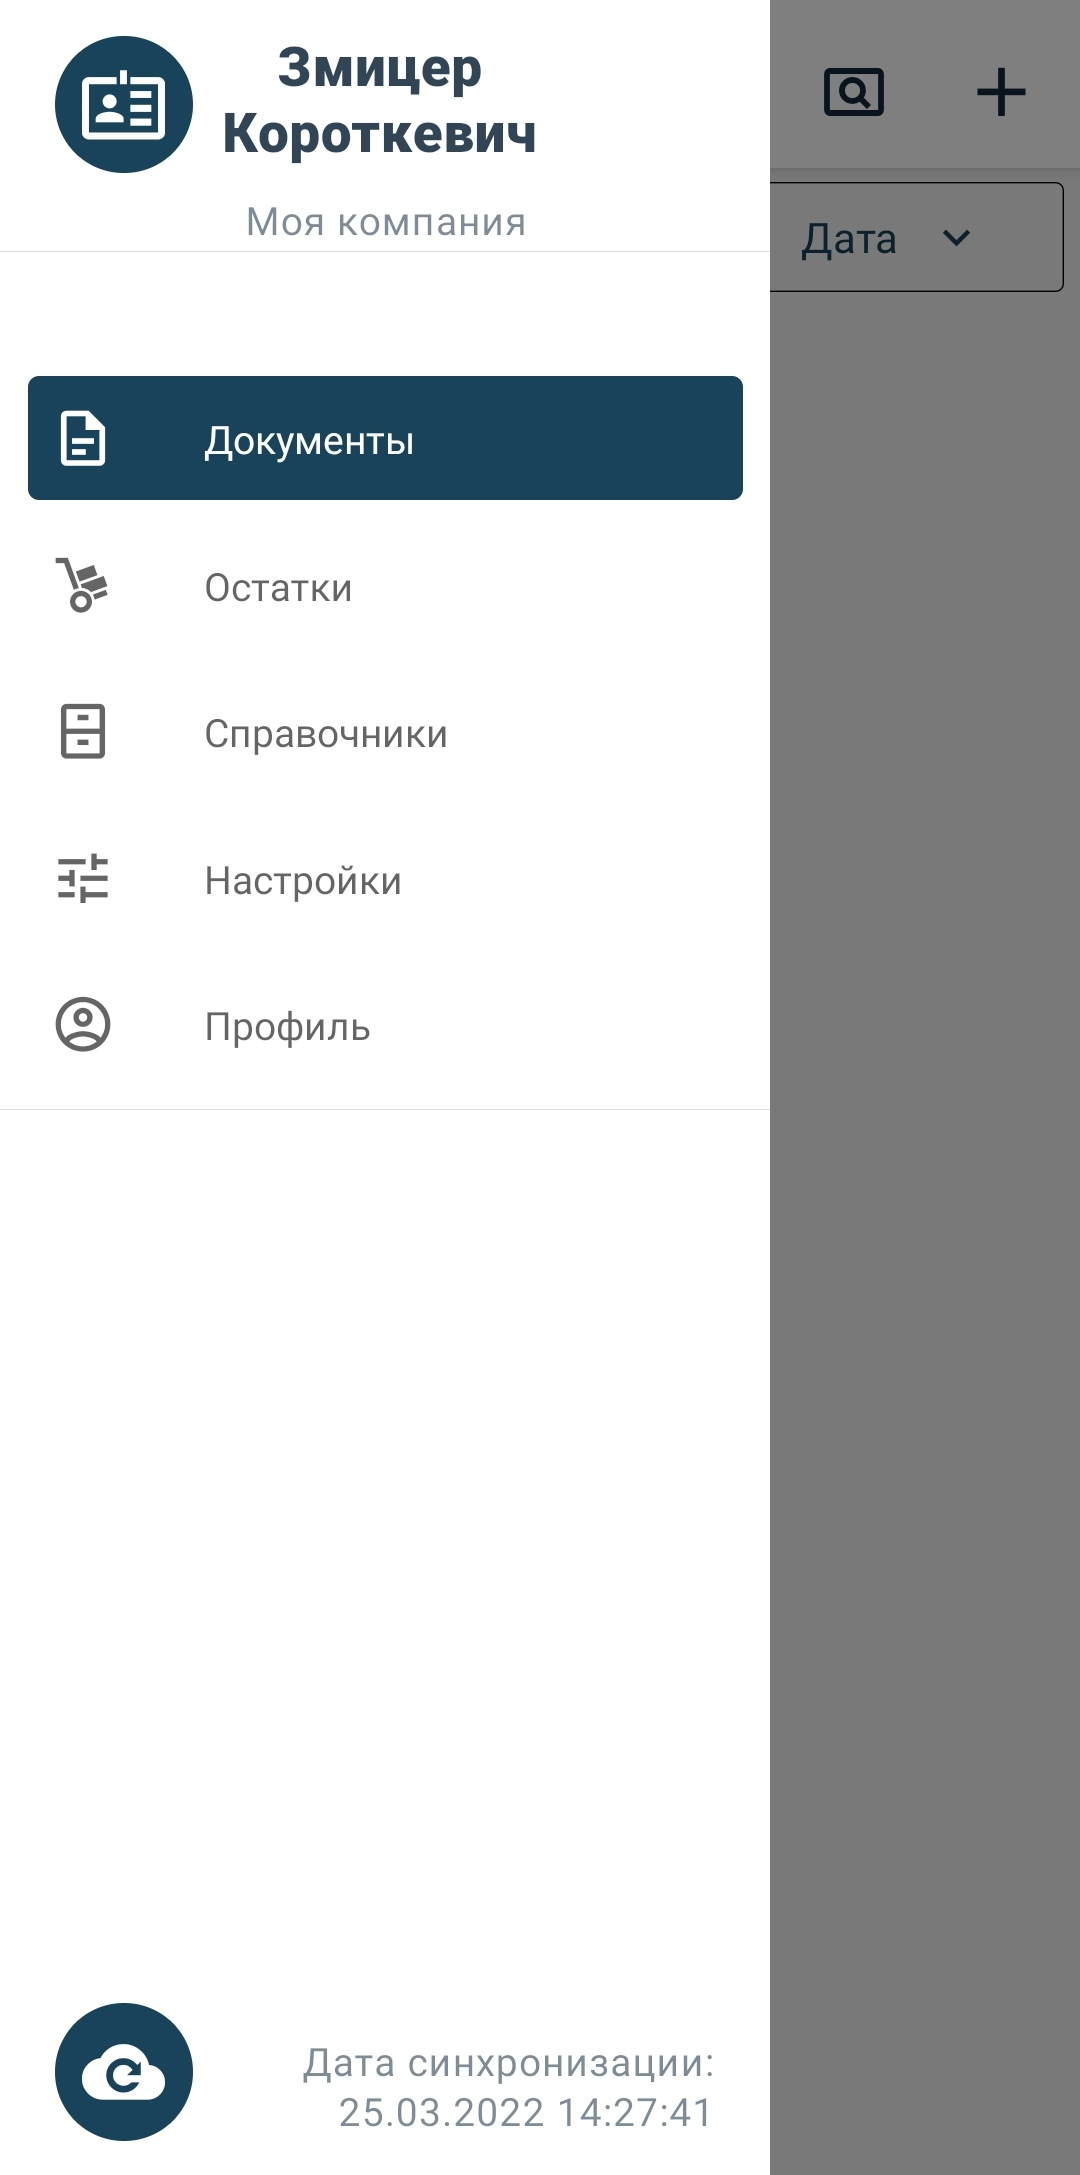
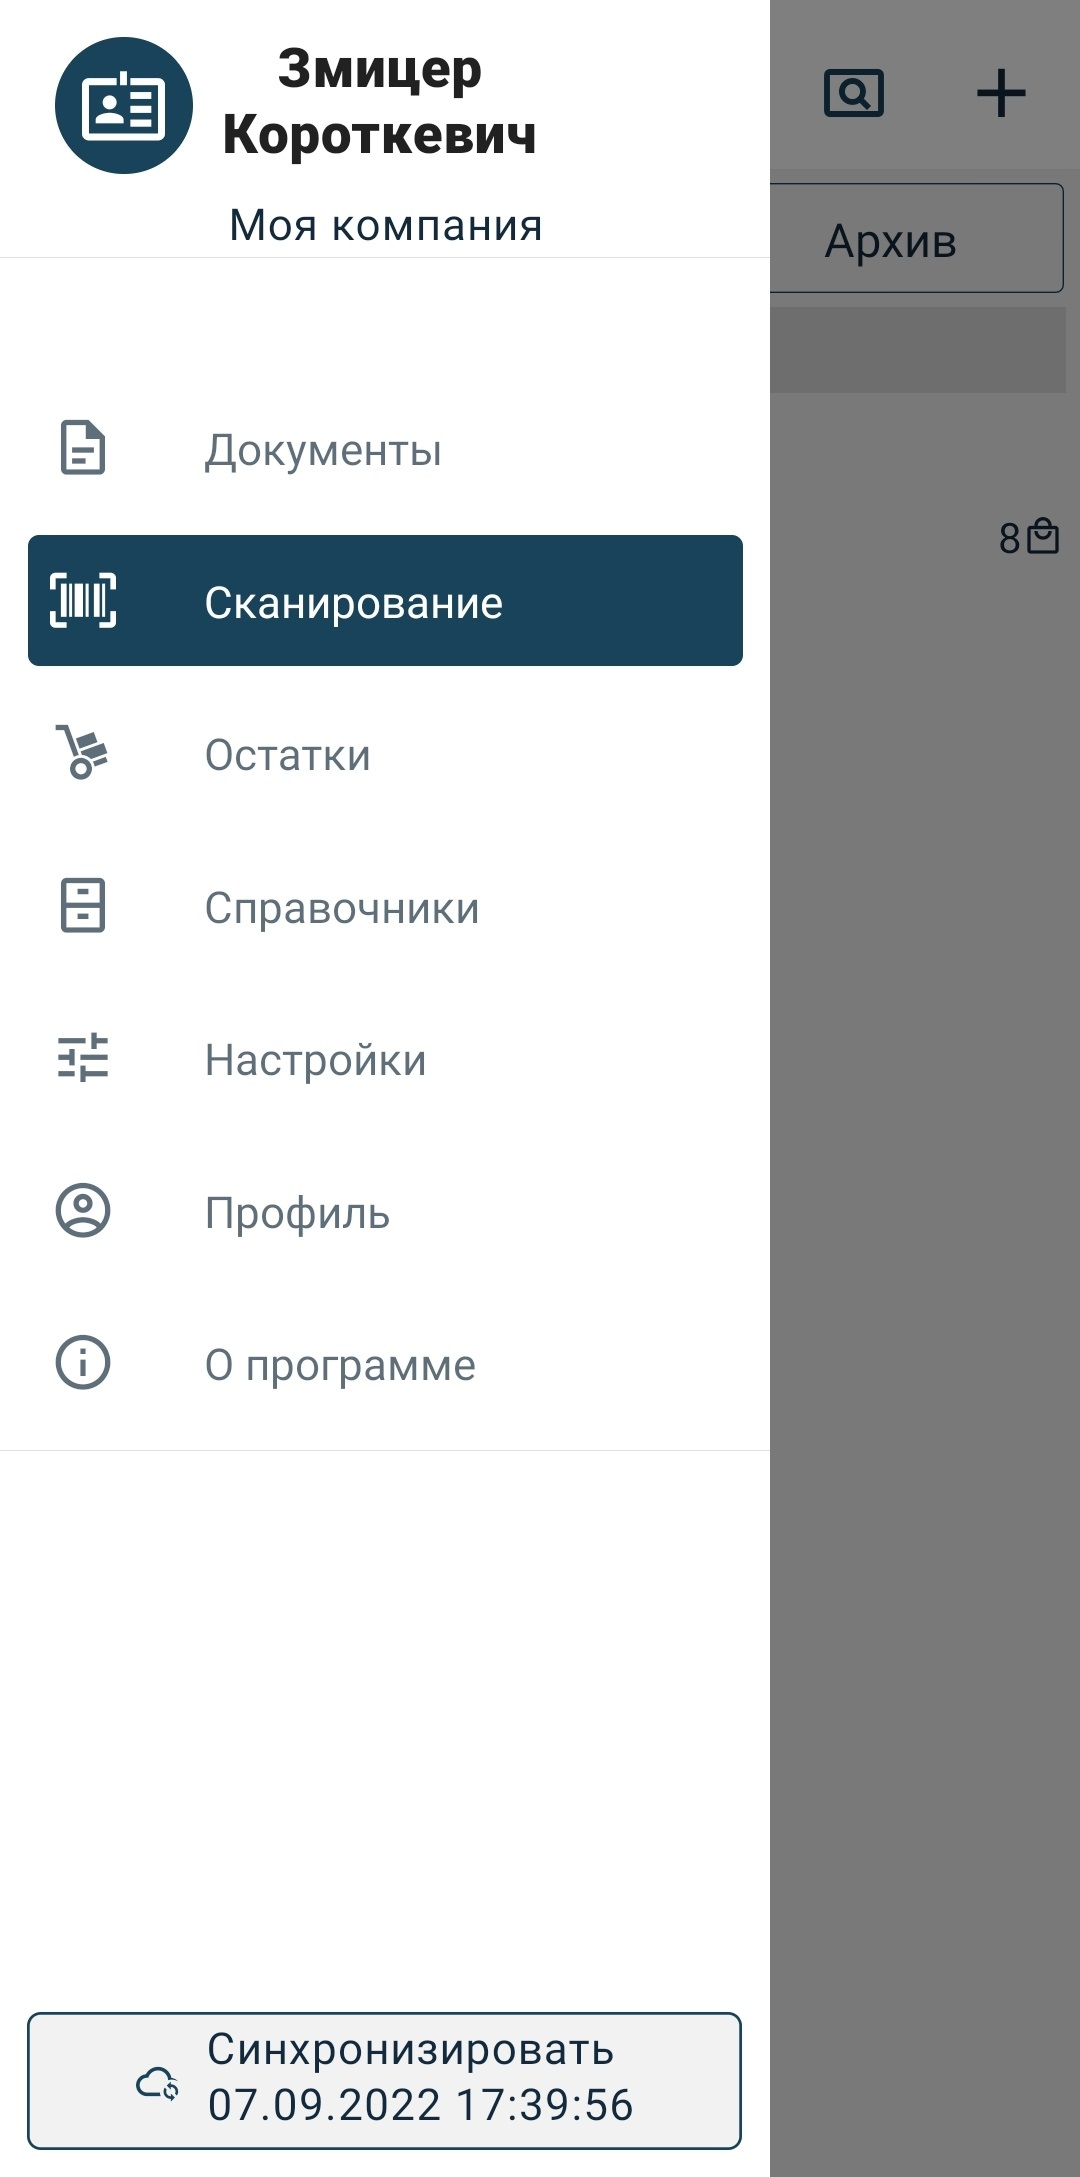
changes docs

diff --git a/docs/gdmn-gd-movement/docs/README.md b/docs/gdmn-gd-movement/docs/README.md
@@ -94,7 +94,7 @@
 
 ## 3. Загрузка данных
 
-Чтобы загрузить данные, предназначенные для пользователя, следует нажать на кнопку синхронизации данных <img src="img/1.Connection/1.Sync.jpg" alt="drawing" height="22"/> в нижнем углу бокового меню.
+Чтобы загрузить данные, предназначенные для пользователя, следует нажать на кнопку синхронизации данных <img src="img/1.Connection/1.Sync.jpg" alt="drawing" height="22"/> в нижней части бокового меню.
 
 Открыть боковое меню можно нажатием на иконку меню " **≡** ", находящуюся в верхнем углу приложения слева, или смахнув пальцем вправо с левого края устройства.
 
@@ -104,7 +104,7 @@
 
 Если синхронизация прошла, но данных не появилось, то необходимо повторить синхронизацию через некоторое время.
 
-Рядом с иконкой <img src="img/1.Connection/1.Sync.jpg" alt="drawing" height="27"/> отобразится дата и время последней синхронизации.
+На кнопке **Синхронизировать** отобразится дата и время последней синхронизации.
 
 <img src="img/1.Connection/1.NewSyncDate.jpg" alt="drawing" height="400"/>
 
@@ -118,7 +118,7 @@
 
 <img src="img/2.References/2.Contacts.jpg" alt="drawing" height="400"/> <img src="img/2.References/2.ContactPosition.jpg" alt="drawing" height="400"/>
 
-Чтобы найти справочник по наименованию можно воспользоваться строкой поиска, нажав на иконку **Поиск** в правом верхнем углу экрана.
+Чтобы найти справочник по наименованию можно воспользоваться строкой поиска, нажав на иконку **Поиск** <img src="img/1.Connection/1.IconSearch.jpg" alt="drawing" height="22"/> в правом верхнем углу экрана.
 
 ## 5. Остатки
 
@@ -143,7 +143,7 @@
 
 Например, для документа прихода это поля **Откуда**, **Куда**. Для документа инвентаризации - поле **Место**.
 
-<img src="img/3.Docs/3.AddDocTypes.jpg" alt="drawing" height="400"/> <img src="img/3.Docs/3.PrihodAdd.jpg" alt="drawing" height="400"/> <img src="img/3.Docs/3.InventoryAdd.jpg" alt="drawing" height="400"/>
+<img src="img/3.Docs/3.AddDocTypes.jpg" alt="drawing" height="400"/> <img src="img/3.Docs/3.DocTypes.jpg" alt="drawing" height="400"/> <img src="img/3.Docs/3.InventoryAdd.jpg" alt="drawing" height="400"/>
 
 Поля контактов могут быть 3 типов, которые при необходимости можно менять:
 - Подразделение
@@ -152,9 +152,9 @@
 
 <img src="img/3.Docs/3.DocTypes.jpg" alt="drawing" height="400"/> <img src="img/3.Docs/3.From.jpg" alt="drawing" height="400"/> <img src="img/3.Docs/3.To.jpg" alt="drawing" height="400"/>
 
-После заполнения данных документ сохраняем, нажав на иконку **✓** в правом верхнем углу.
+После заполнения данных документ сохраняем, нажав на иконку " **✓** " в правом верхнем углу.
 
-Отредактировать введенные данные можно, нажав на шапку документа или используя пункт меню " **⁝** " **Редактировать данные**.
+Отредактировать введенные данные можно, нажав на значок <img src="img/1.Connection/1.IconEdit.jpg" alt="drawing" height="22"/> на шапке документа или используя пункт меню " **⁝** " **Редактировать данные**.
 
 <img src="img/3.Docs/3.PrihodView.jpg" alt="drawing" height="400"/> <img src="img/3.Docs/3.PrihodNew.jpg" alt="drawing" height="400"/> <img src="img/3.Docs/3.MenuDelDoc.jpg" alt="drawing" height="400"/>
 
@@ -176,7 +176,9 @@
 Уточнение: если вы производите сканирование штрихкодов исключительно с помощью камеры устройства, то в настройках приложения необходимо перевести параметр **Использовать сканер** в отрицательное положение.
 
 
-Нажимаем на иконку штрихкода <img src="img/10.Scanner/10.IconScanner.jpg" alt="drawing" height="22"/> в верхнем правом углу и переходим на экран сканирования товара.
+Нажимаем на иконку штрихкода <img src="img/10.Scanner/10.IconScanner.jpg" alt="drawing" height="22"/>  в верхнем правом углу и переходим на экран сканирования товара. 
+
+<img src="img/3.Docs/3.PrihodView.jpg" alt="drawing" height="400"/>
 
 Экран сканирования на ТСД:
 
@@ -186,11 +188,11 @@
 
 <img src="img/3.Docs/3.Scan.jpg" alt="drawing" height="400"/> <img src="img/3.Docs/3.ScanOne.jpg" alt="drawing" height="400"/>
 
-Сканируем штрихкод и переходим на экран позиции документа для ввода количества:
+Сканируем штрихкод и переходим на экран позиции документа для ввода количества товара:
 
 <img src="img/3.Docs/3.PrihodGoodLineOne.jpg" alt="drawing" height="400"/>
 
-Вводим количество и сохраняем позицию, нажав на иконку **✓**.
+Вводим количество и сохраняем позицию, нажав на иконку " **✓** ".
 
 Если отсканированный штрихкод не найден в справочнике, и если документ работает не только с остатками товаров (например, документ прихода), то в позицию подставится неизвестный товар:
 
@@ -203,7 +205,7 @@
 #### _Добавление товара вручную_
 
 В меню документа " **⁝** ", расположенном в правом верхнем углу, нажимаем на пункт **Добавить товар**.
-Выбираем товар из списка, воспользовавшись строкой поиска (по названию или штрихкоду). Далее вводим количество и сохраняем позицию **✓**.
+Выбираем товар из списка, воспользовавшись строкой поиска (по названию или штрихкоду). Далее вводим количество и сохраняем позицию " **✓** ".
 
 <img src="img/3.Docs/3.PrihodViewMenu.jpg" alt="drawing" height="400"/> <img src="img/3.Docs/3.PrihodRemains.jpg" alt="drawing" height="400"/> <img src="img/3.Docs/3.PrihodRemainsSearch.jpg" alt="drawing" height="400"/>
 
@@ -215,7 +217,7 @@
 
 #### Удаление позиции
 
-Если в экране просмотра документа нажать и удерживать позицию товара, то появится зеленая галочка. Далее необходимо нажать на иконку **Мусорная корзина**, и подтвердить желание удалить данную позицию или позиции документа. 
+Если в экране просмотра документа нажать и удерживать позицию товара, то появится зеленая галочка. Далее необходимо нажать на иконку  <img src="img/1.Connection/1.IconTrash.jpg" alt="drawing" height="22"/> **Мусорная корзина**, и подтвердить желание удалить данную позицию или позиции документа. 
 
 Позиция или позиции будут удалены.
 
@@ -223,7 +225,7 @@
 
 Отменить удаление позиций документа можно:
 - нажав на иконку " **×** ", в левом верхнем углу. При этом способе счезнут все зеленые галочки с выбранных позиций, экран вернется к изначальному состоянию.
-- нажав иконку **Мусорная корзина** и выбрав кнопку **Отмена** в появившемся окне "Уверены, что хотите удалить позиции документа?". При этом способе все зеленые галочки на выбранных позициях останутся на месте, можно продолжить редактировать удаление позиций документа.
+- нажав иконку <img src="img/1.Connection/1.IconTrash.jpg" alt="drawing" height="22"/> **Мусорная корзина** и выбрав кнопку **Отмена** в появившемся окне "Уверены, что хотите удалить позиции документа?". При этом способе все зеленые галочки на выбранных позициях останутся на месте, можно продолжить редактировать удаление позиций документа.
 
 <img src="img/3.Docs/3.DelPositDoc.jpg" alt="drawing" height="400"/> <img src="img/3.Docs/3.SwipeGood.jpg" alt="drawing" height="400"/>
 
@@ -245,7 +247,7 @@
 
 Вернемся на экран просмотра списка документов, выбрав пункт бокового меню **Документы**.
 
-Чтобы найти документ по наименованию можно воспользоваться строкой поиска, нажав на иконку **Поиск** в правом верхнем углу экрана.
+Чтобы найти документ по наименованию можно воспользоваться строкой поиска, нажав на иконку <img src="img/1.Connection/1.IconSearch.jpg" alt="drawing" height="22"/> **Поиск** в правом верхнем углу экрана.
 
 
 <img src="img/3.Docs/3.DocsList.jpg" alt="drawing" height="400"/>
@@ -260,7 +262,7 @@
 
 Пока документ не отправлен, его можно вернуть из статуса **Готов к отправке** в статус **Черновик** и отредактировать данные.
 
-Чтобы отправить все документы со статусом **Готов к отправке** на сервер, необходимо нажать на иконку синхронизации <img src="img/1.Connection/1.Sync.jpg" alt="drawing" height="27"/> в боковом меню (открыть боковое меню можно нажатием на иконку меню " **≡** ", находящуюся в верхнем углу приложения слева, или смахнув пальцем вправо с левого края устройства). 
+Чтобы отправить ВСЕ документы со статусом **Готов к отправке** на сервер, необходимо нажать на кнопку  <img src="img/1.Connection/1.Sync.jpg" alt="drawing" height="22"/> **Синхронизировать** в боковом меню (открыть боковое меню можно нажатием на иконку меню " **≡** ", находящуюся в верхнем углу приложения слева, или смахнув пальцем вправо с левого края устройства). 
 
 Также можно отправить на сервер ОДИН документ, для этого нажать на иконку <img src="img/1.Connection/1.IconSend.jpg" alt="drawing" height="22"/> , находящуюся над шапкой документа. 
 
